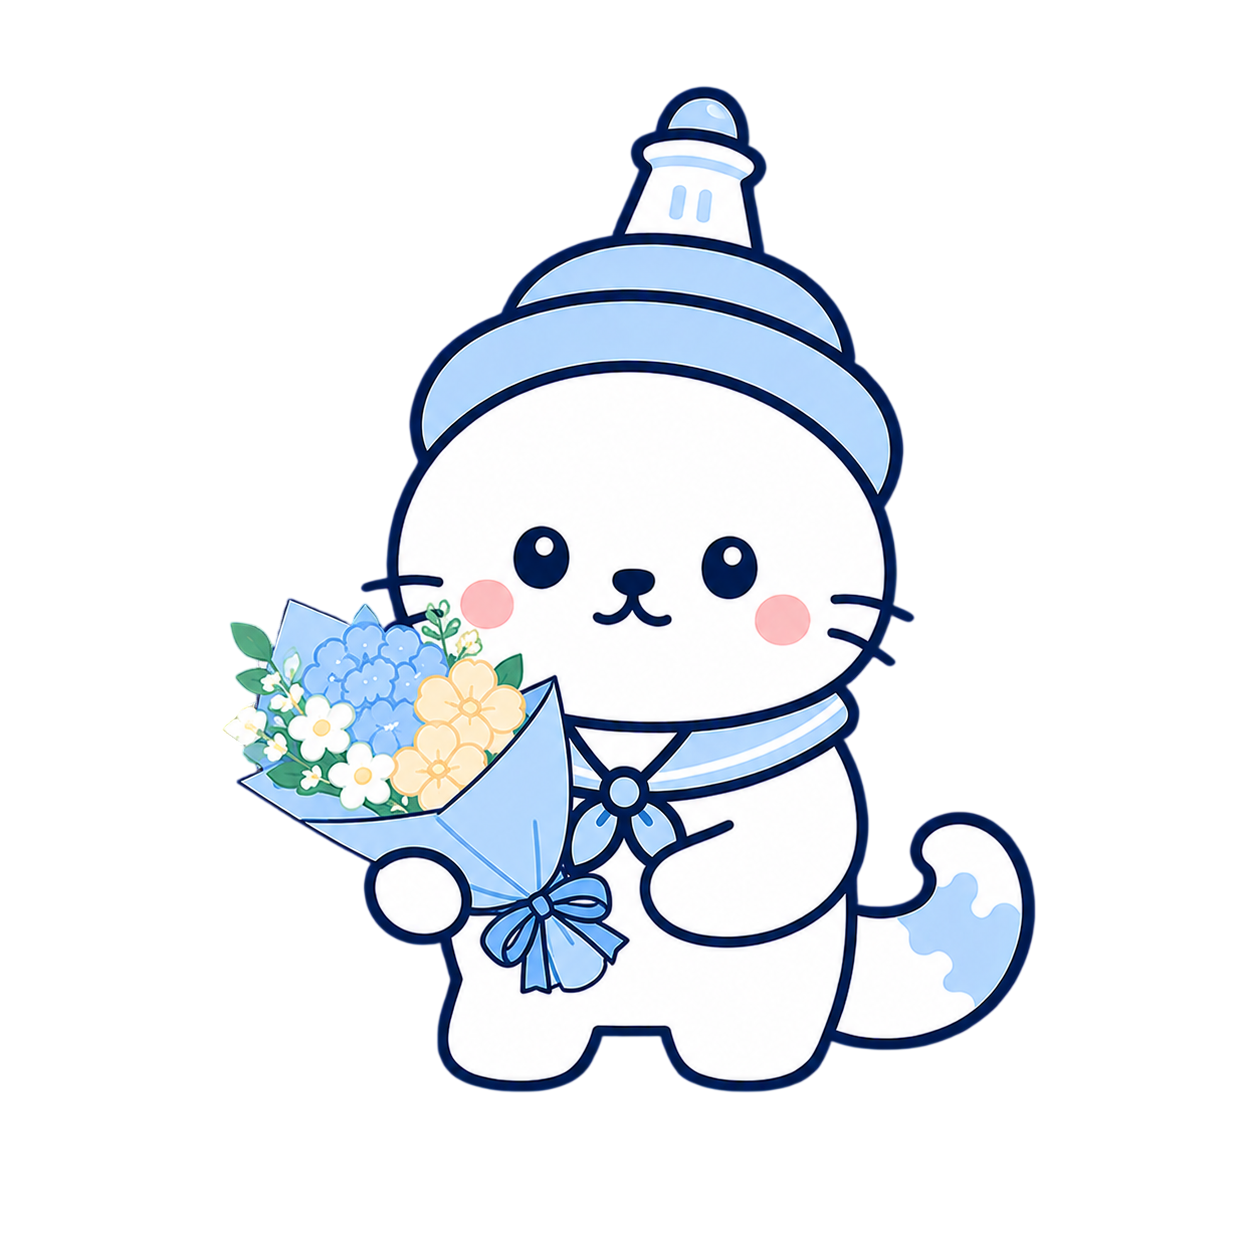
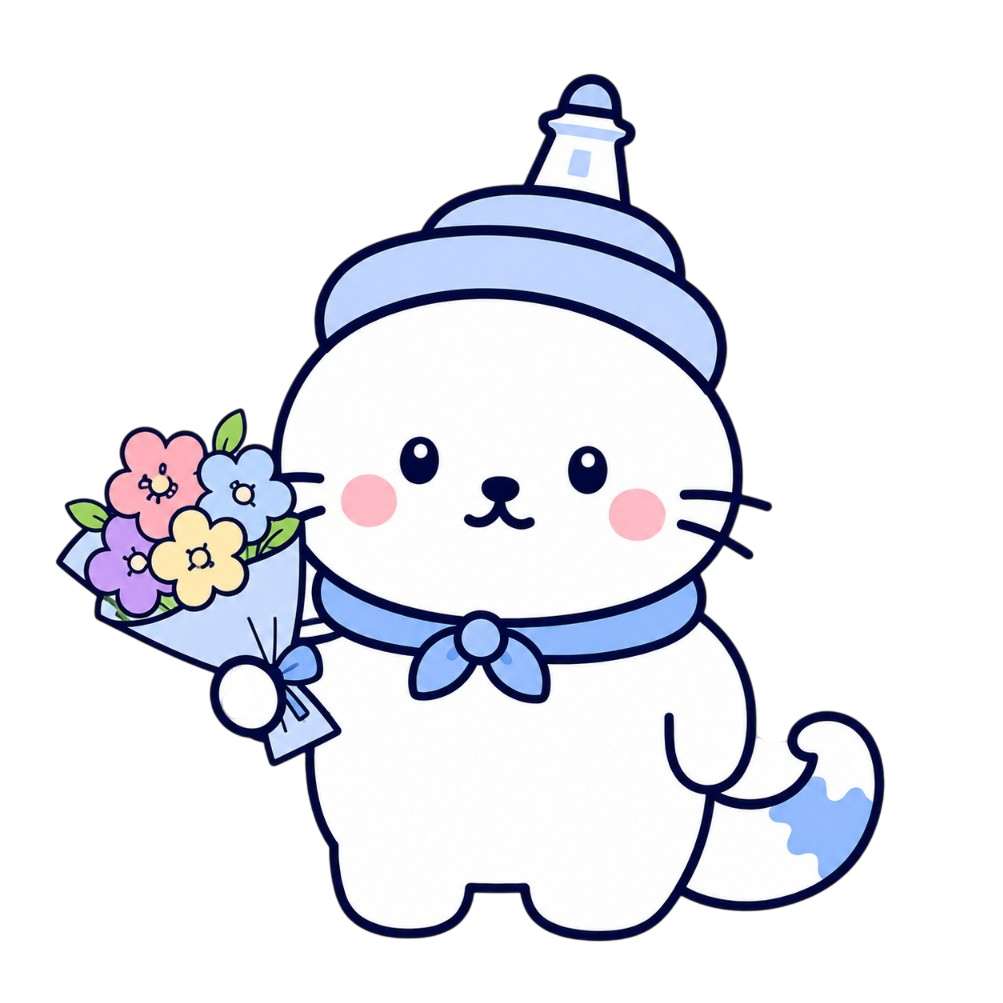
style: 프로필 이미지 상반신 크롭 적용

diff --git a/src/features/mypage/components/MypageProfile.tsx b/src/features/mypage/components/MypageProfile.tsx
@@ -143,14 +143,15 @@ export function MypageProfile() {
           >
             <div
               style={{ width: AVATAR_SIZE, height: AVATAR_SIZE }}
-              className="overflow-hidden rounded-full bg-system-navbg"
+              className="relative overflow-hidden rounded-full bg-system-navbg"
             >
               <Image
                 src={currentImage.src}
                 alt={`${nickname} 프로필 이미지`}
-                width={AVATAR_SIZE}
-                height={AVATAR_SIZE}
-                className="h-full w-full object-cover"
+                fill
+                sizes="100px"
+                // 셀렉터와 동일한 크롭 기준
+                className="object-cover scale-125 origin-[center_25%]"
               />
             </div>
             <button

diff --git a/src/components/profile/ProfileImageSelector.tsx b/src/components/profile/ProfileImageSelector.tsx
@@ -61,7 +61,15 @@ export function ProfileImageSelector({
                 : "bg-system-navbg outline outline-[2.5px] outline-transparent",
             )}
           >
-            <Image src={src} alt={`프로필 ${id}`} fill className="object-cover scale-120" />
+            <Image
+              src={src}
+              alt=""
+              aria-hidden
+              fill
+              sizes="74px"
+              // 원본 세로 8~72% 구간(모자~스카프)만 노출
+              className="object-cover scale-125 origin-[center_25%]"
+            />
           </button>
         ))}
       </div>
